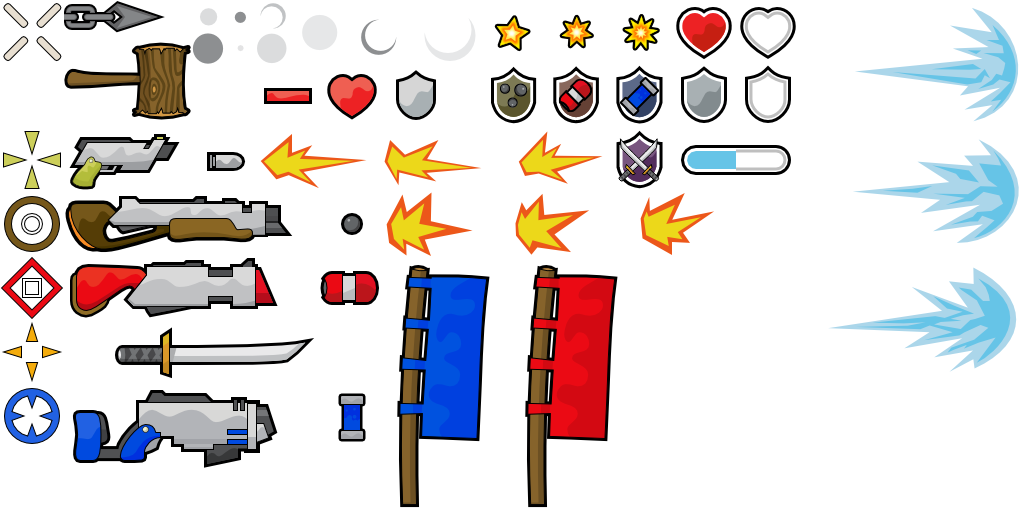
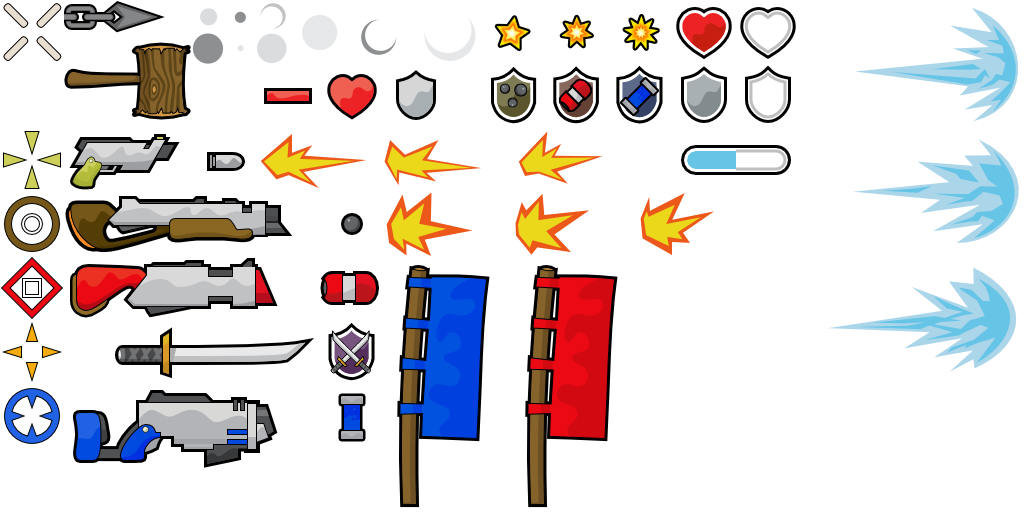
Move ninja shield to other position (fixes #5047)
Quick fix for now, until c0d3d3v's new HUD is done, then could be moved
to a new graphics file entirely.

Changed region(s): [[0.5938, 0.25, 0.6562, 0.375], [0.3125, 0.625, 0.375, 0.75]]

diff --git a/datasrc/content.py b/datasrc/content.py
@@ -365,7 +365,7 @@ container.sprites.Add(Sprite("pickup_armor", set_game, 12,2,2,2))
 container.sprites.Add(Sprite("pickup_armor_shotgun", set_game, 15,2,2,2))
 container.sprites.Add(Sprite("pickup_armor_grenade", set_game, 17,2,2,2))
 container.sprites.Add(Sprite("pickup_armor_laser", set_game, 19,2,2,2))
-container.sprites.Add(Sprite("pickup_armor_ninja", set_game, 19,4,2,2))
+container.sprites.Add(Sprite("pickup_armor_ninja", set_game, 10,10,2,2))
 container.sprites.Add(Sprite("pickup_weapon", set_game, 3,0,6,2))
 container.sprites.Add(Sprite("pickup_ninja", set_game, 2,10,8,2))
 
